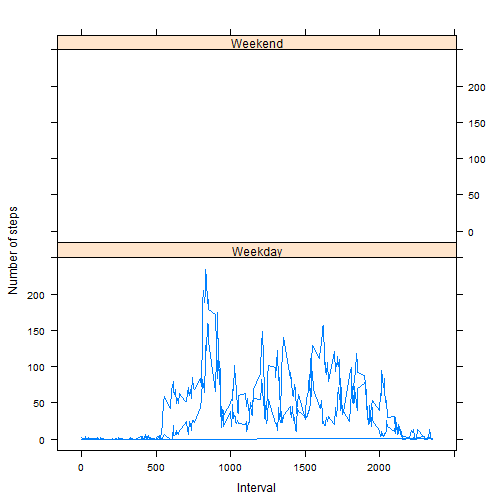
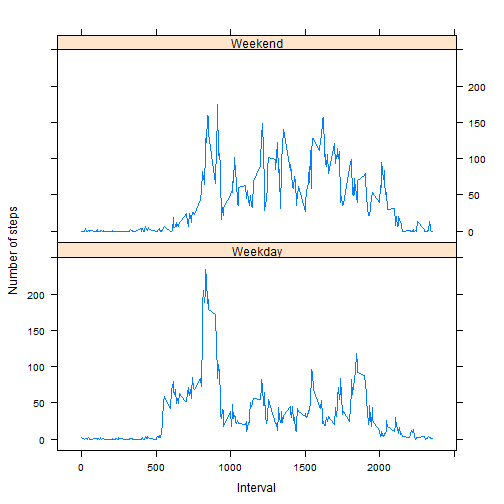
SHA-1

diff --git a/PA1_template.html b/PA1_template.html
@@ -404,7 +404,7 @@ activity$daylevel &lt;- daylevel
 activity$daylevel &lt;- factor(activity$daylevel)
 
 stepsByDay &lt;- aggregate(steps ~ interval + daylevel, data = activity, mean)
-names(stepsByDay) &lt;- c(&quot;interval&quot;, &quot;day_type&quot;, &quot;steps&quot;)
+names(stepsByDay) &lt;- c(&quot;interval&quot;, &quot;daylevel&quot;, &quot;steps&quot;)
 </code></pre>
 
 <p>Make a panel plot containing a time series plot (i.e. type = &ldquo;l&rdquo;) of the
@@ -412,11 +412,13 @@ names(stepsByDay) &lt;- c(&quot;interval&quot;, &quot;day_type&quot;, &quot;step
 across all weekday days or weekend days (y-axis). The plot should look
 something like the following, which was creating using simulated data:</p>
 
-<pre><code class="r">xyplot(steps ~ interval | daylevel, stepsByDay, type = &quot;l&quot;, layout = c(1, 2), 
-    xlab = &quot;Interval&quot;, ylab = &quot;Number of steps&quot;)
+<pre><code class="r">library(lattice)
+require(lattice)
+xyplot(steps ~ interval | daylevel, data = stepsByDay, type = &quot;l&quot;, layout = c(1, 
+    2), xlab = &quot;Interval&quot;, ylab = &quot;Number of steps&quot;)
 </code></pre>
 
[2 lines of base64/hex data omitted]
 
 </body>
 

diff --git a/PA1_template.md b/PA1_template.md
@@ -275,7 +275,7 @@ activity$daylevel <- daylevel
 activity$daylevel <- factor(activity$daylevel)
 
 stepsByDay <- aggregate(steps ~ interval + daylevel, data = activity, mean)
-names(stepsByDay) <- c("interval", "day_type", "steps")
+names(stepsByDay) <- c("interval", "daylevel", "steps")
 ```
 
 
@@ -286,8 +286,10 @@ something like the following, which was creating using simulated data:
 
 
 ```r
-xyplot(steps ~ interval | daylevel, stepsByDay, type = "l", layout = c(1, 2), 
-    xlab = "Interval", ylab = "Number of steps")
+library(lattice)
+require(lattice)
+xyplot(steps ~ interval | daylevel, data = stepsByDay, type = "l", layout = c(1, 
+    2), xlab = "Interval", ylab = "Number of steps")
 ```
 
 ![plot of chunk unnamed-chunk-20](figure/unnamed-chunk-20.png) 
